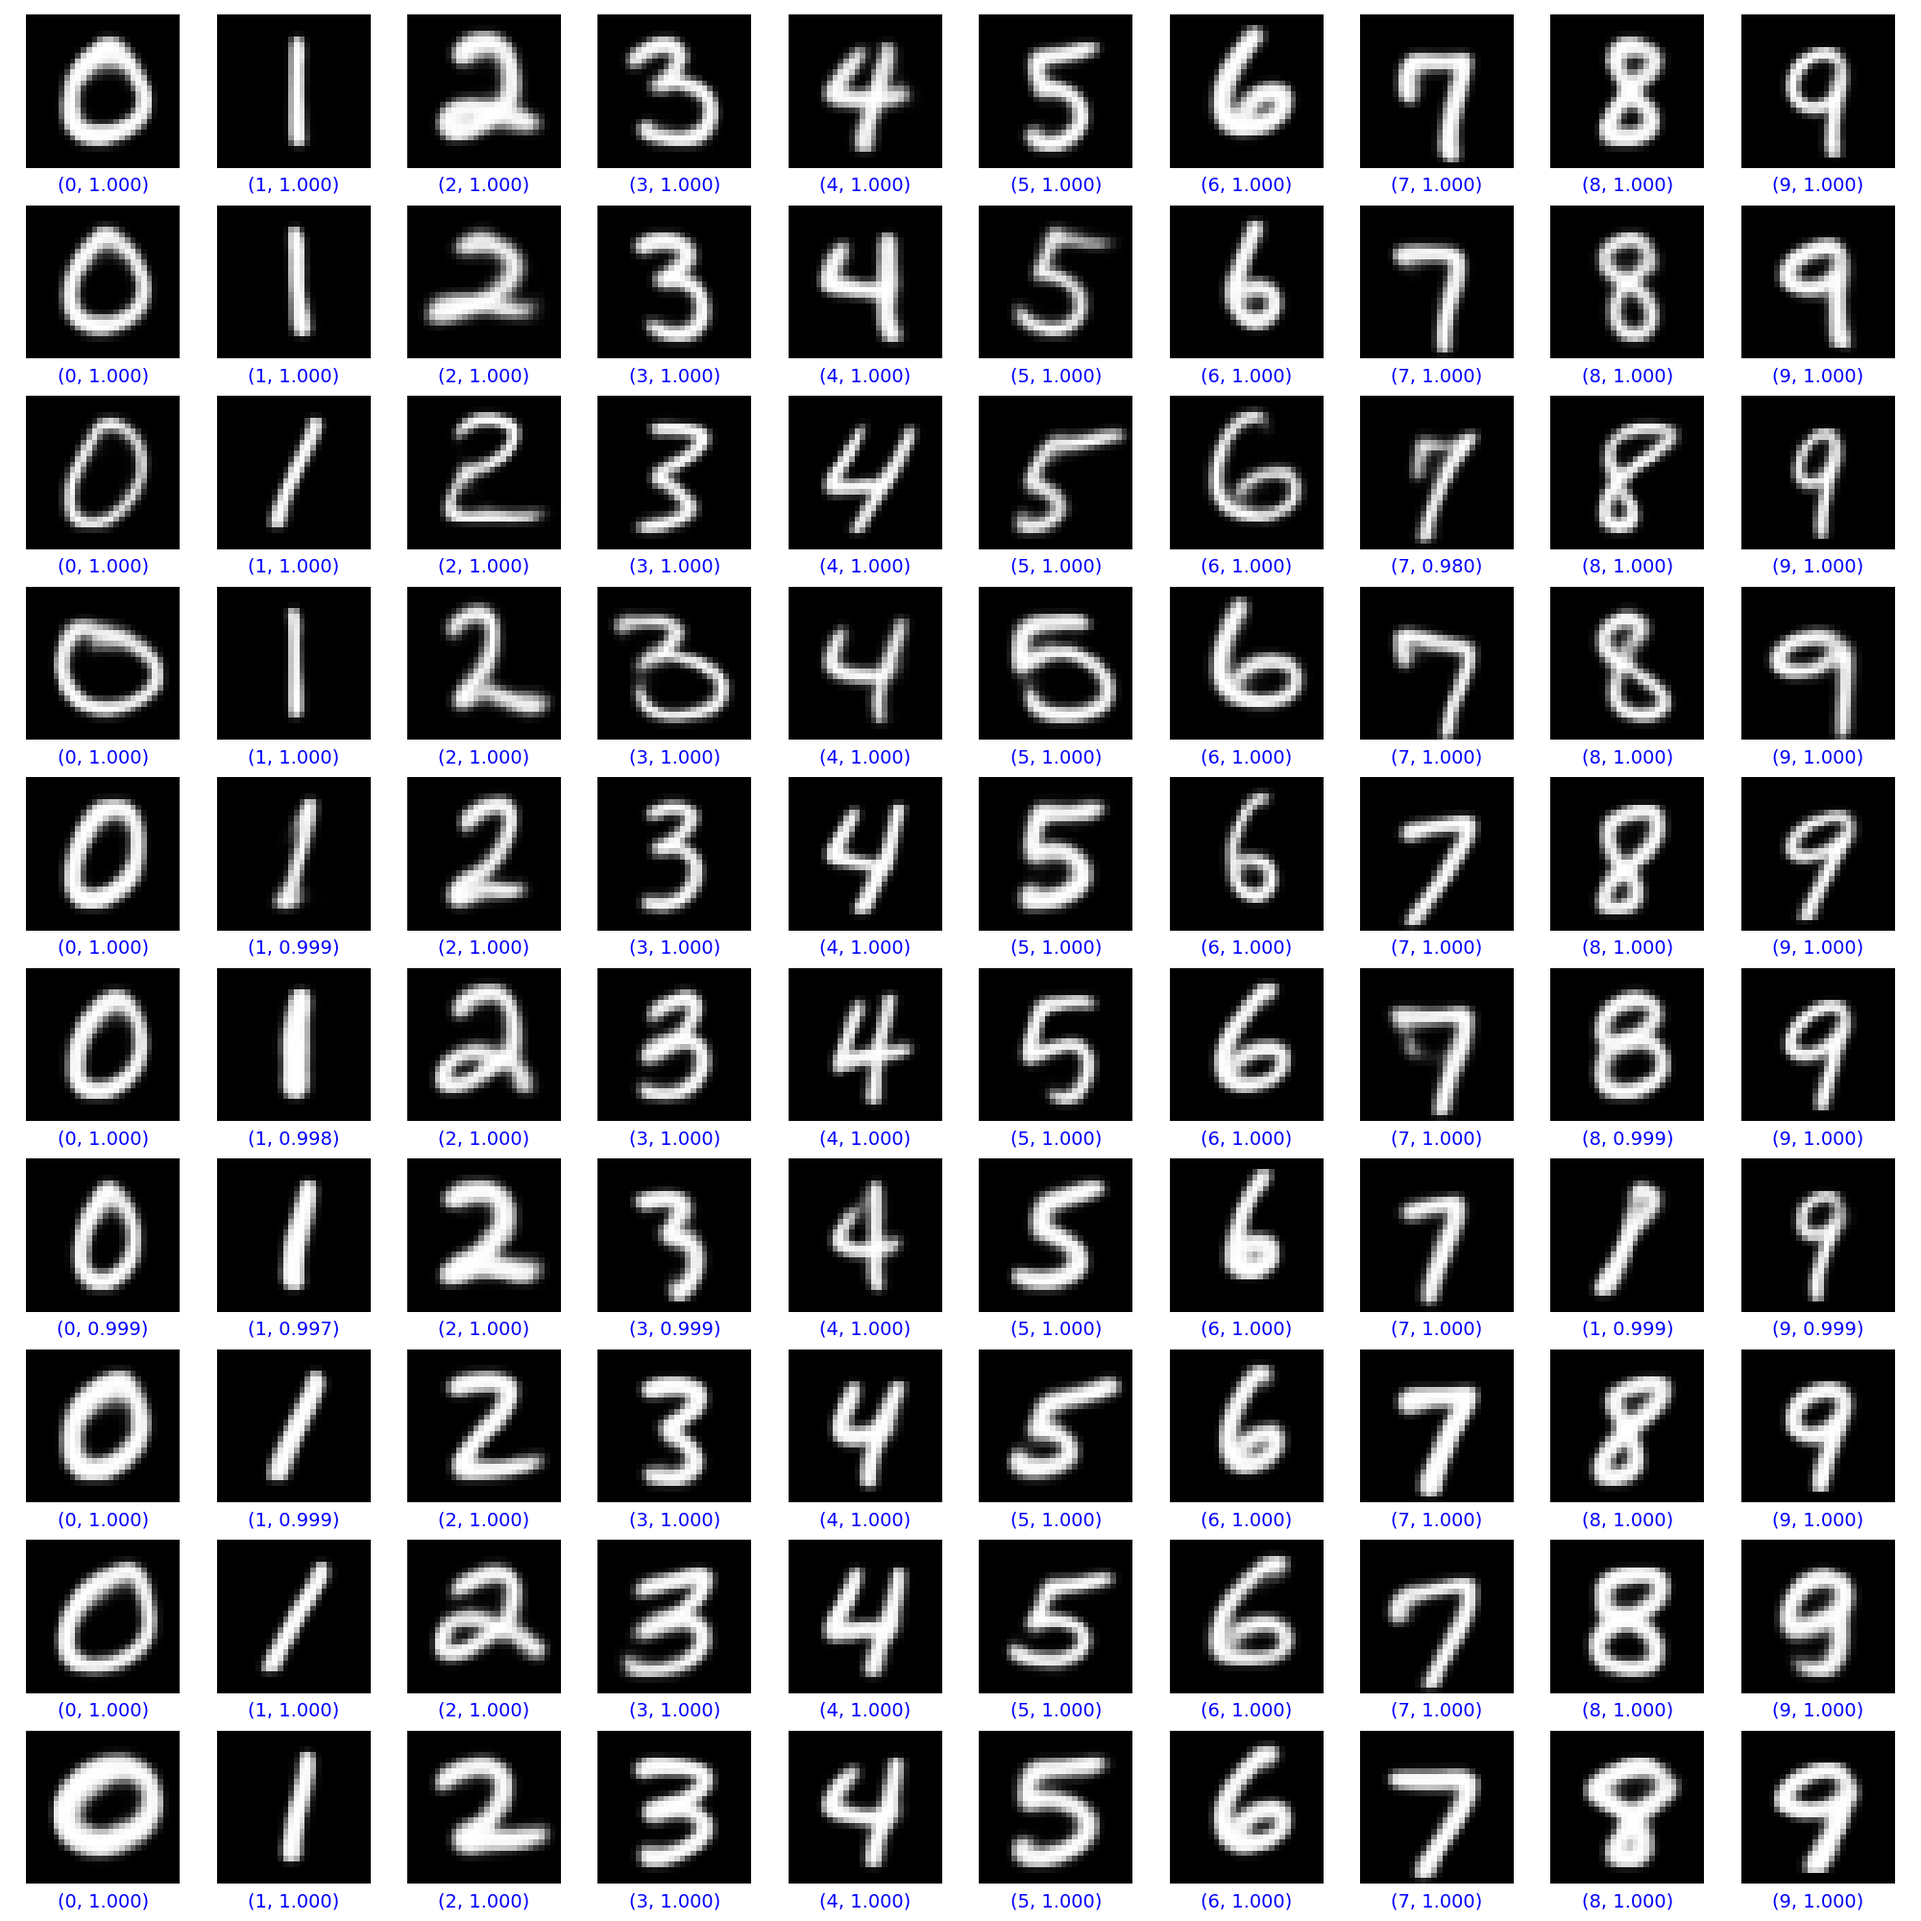
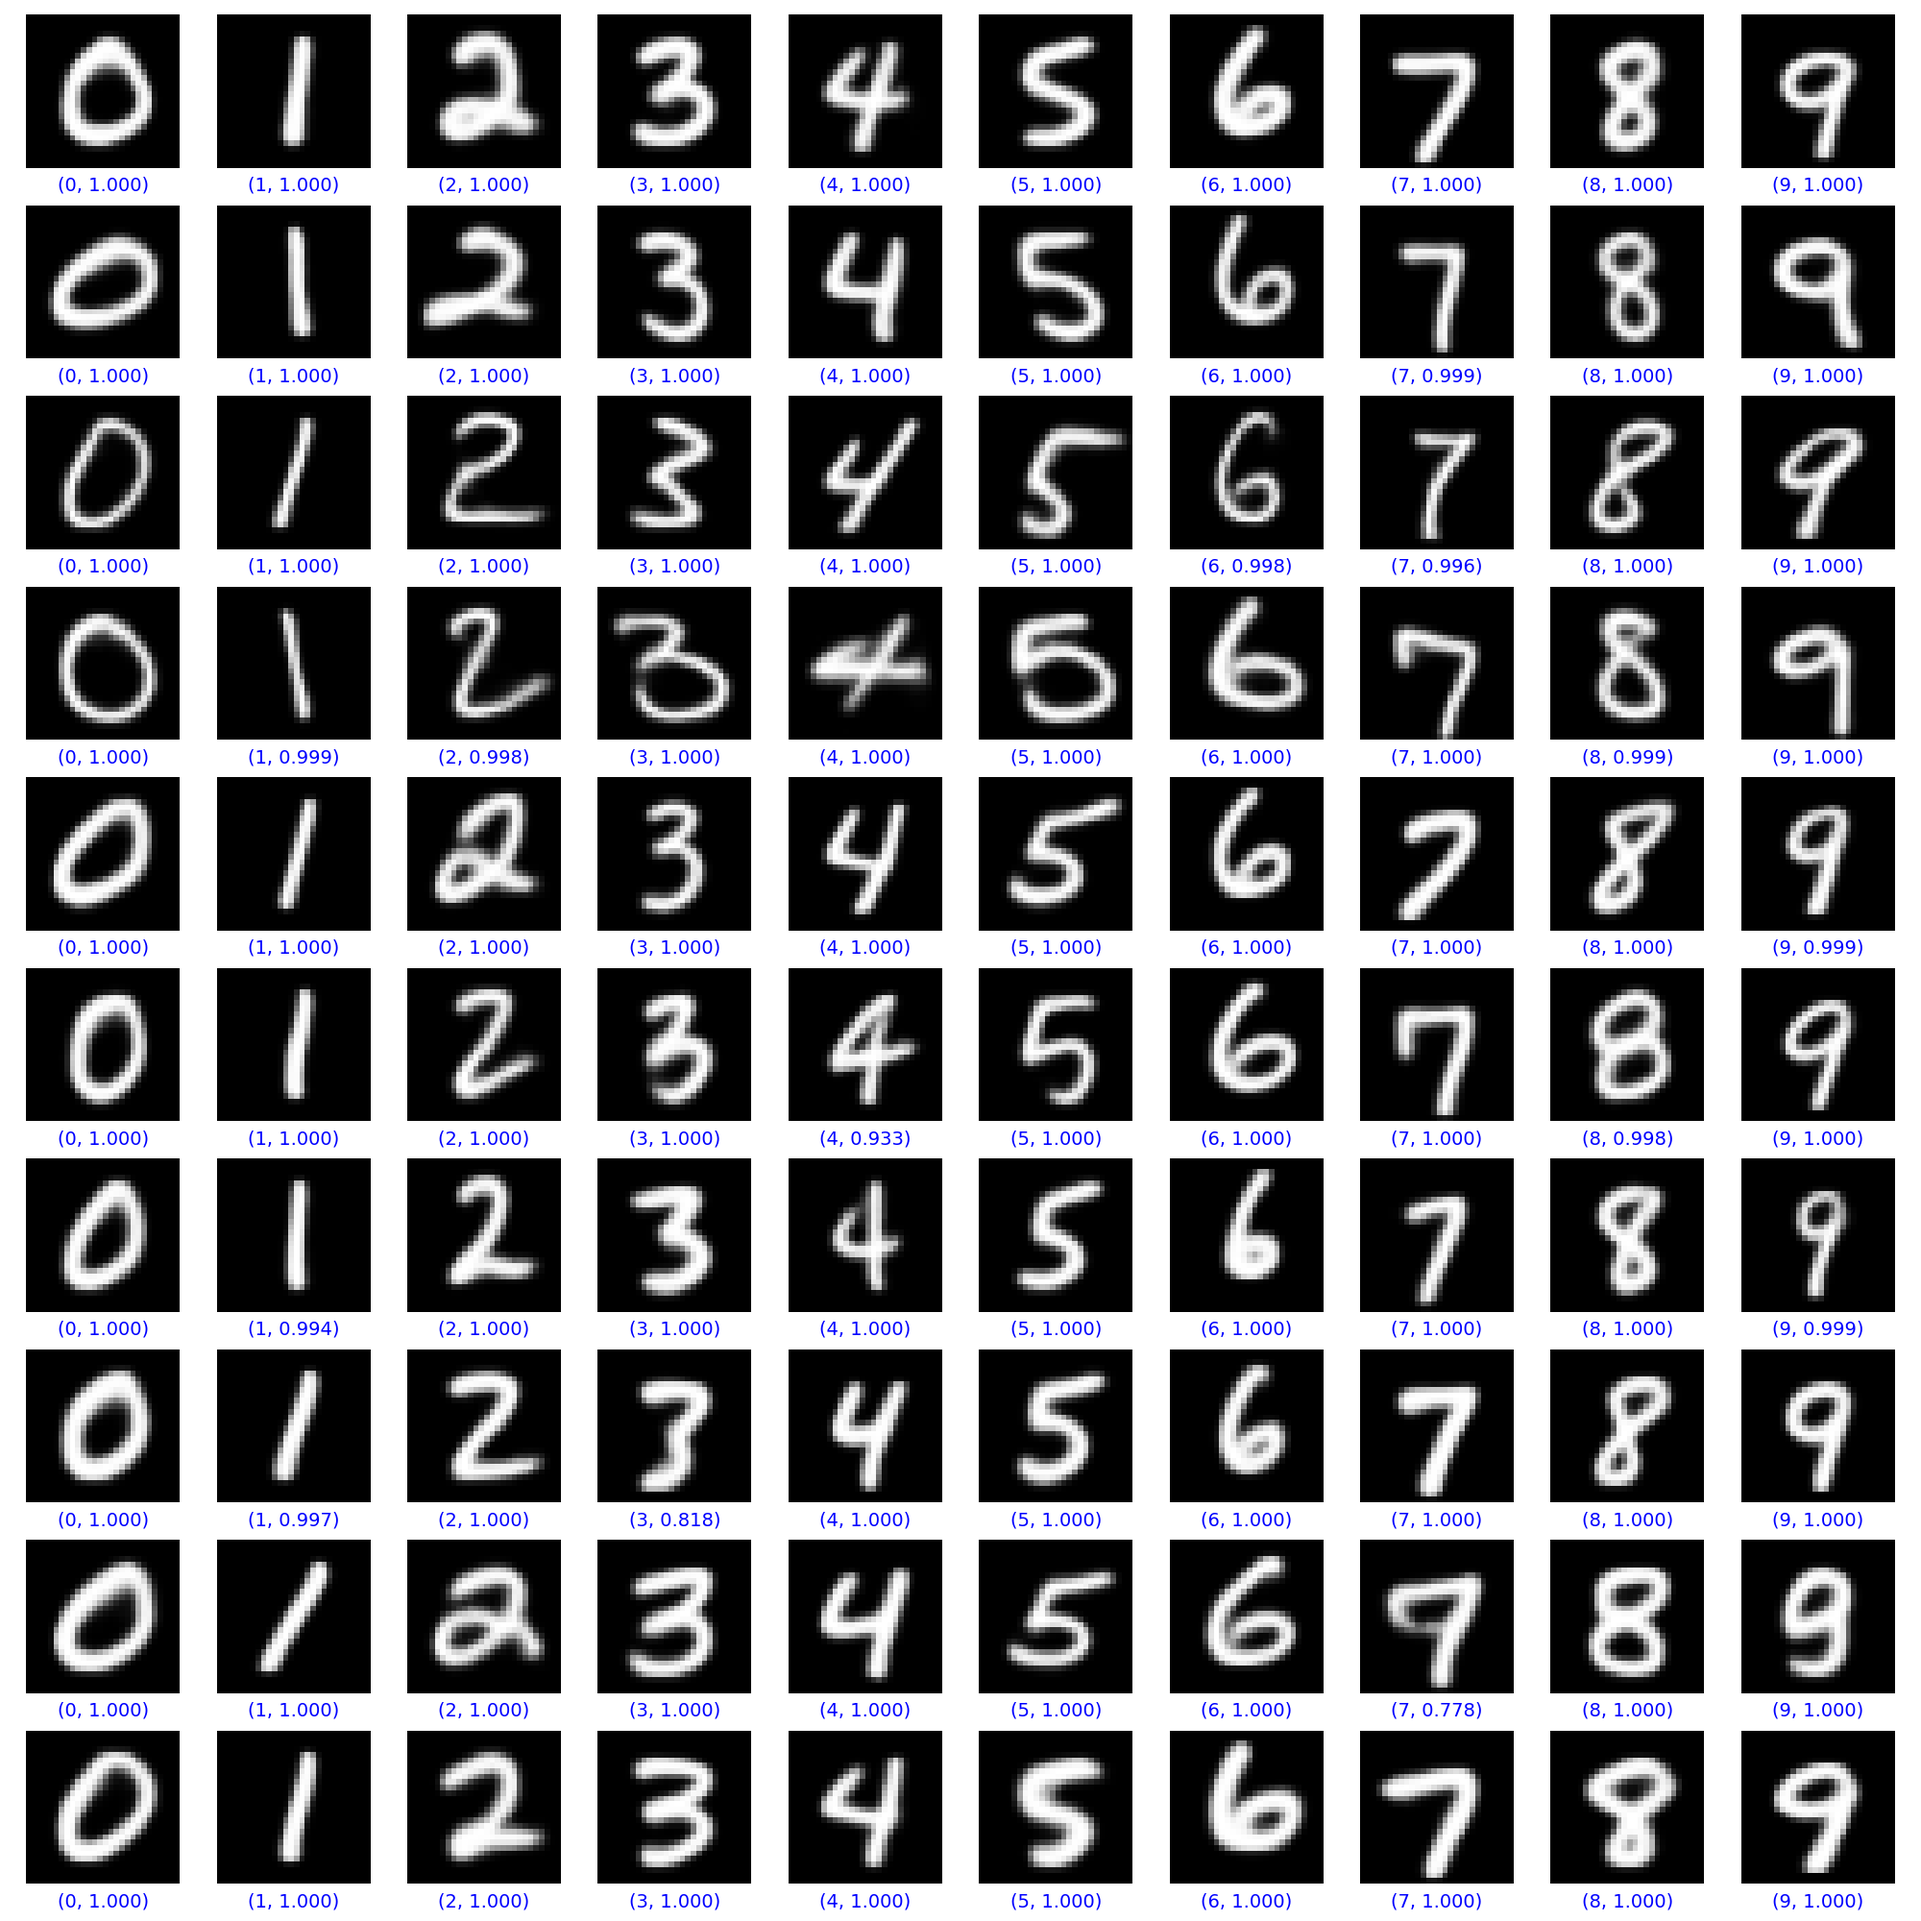
Reg 0.15 sinkhorn OT Transform

diff --git a/Sources/code/utils/latent.py b/Sources/code/utils/latent.py
@@ -282,7 +282,7 @@ import numpy as np
 import ot
 from sklearn.preprocessing import StandardScaler
 
-def compute_mappings_ot(z_classes, y_classes, subsample_ratio=0.4):
+def compute_mappings_ot(z_classes, y_classes, subsample_ratio=0.3):
     classes = np.unique(y_classes)
     class_pairs = [(src, dst) for src in classes for dst in classes if src != dst]
     
@@ -313,7 +313,7 @@ def compute_mappings_ot(z_classes, y_classes, subsample_ratio=0.4):
 
         # transport_plan = ot.sinkhorn(a, b, M, reg=0.275, numItermax=10000)
         #transport_plan = ot.emd(a, b, M, numItermax=5000000)
-        transport_plan = ot.bregman.sinkhorn_log(a, b, M, reg=0.15, numItermax=10000)
+        transport_plan = ot.bregman.sinkhorn_log(a, b, M, reg=0.15, numItermax=15000)
 
         mappings[(src_cls, dst_cls)] = {
             'scaler': scaler,
